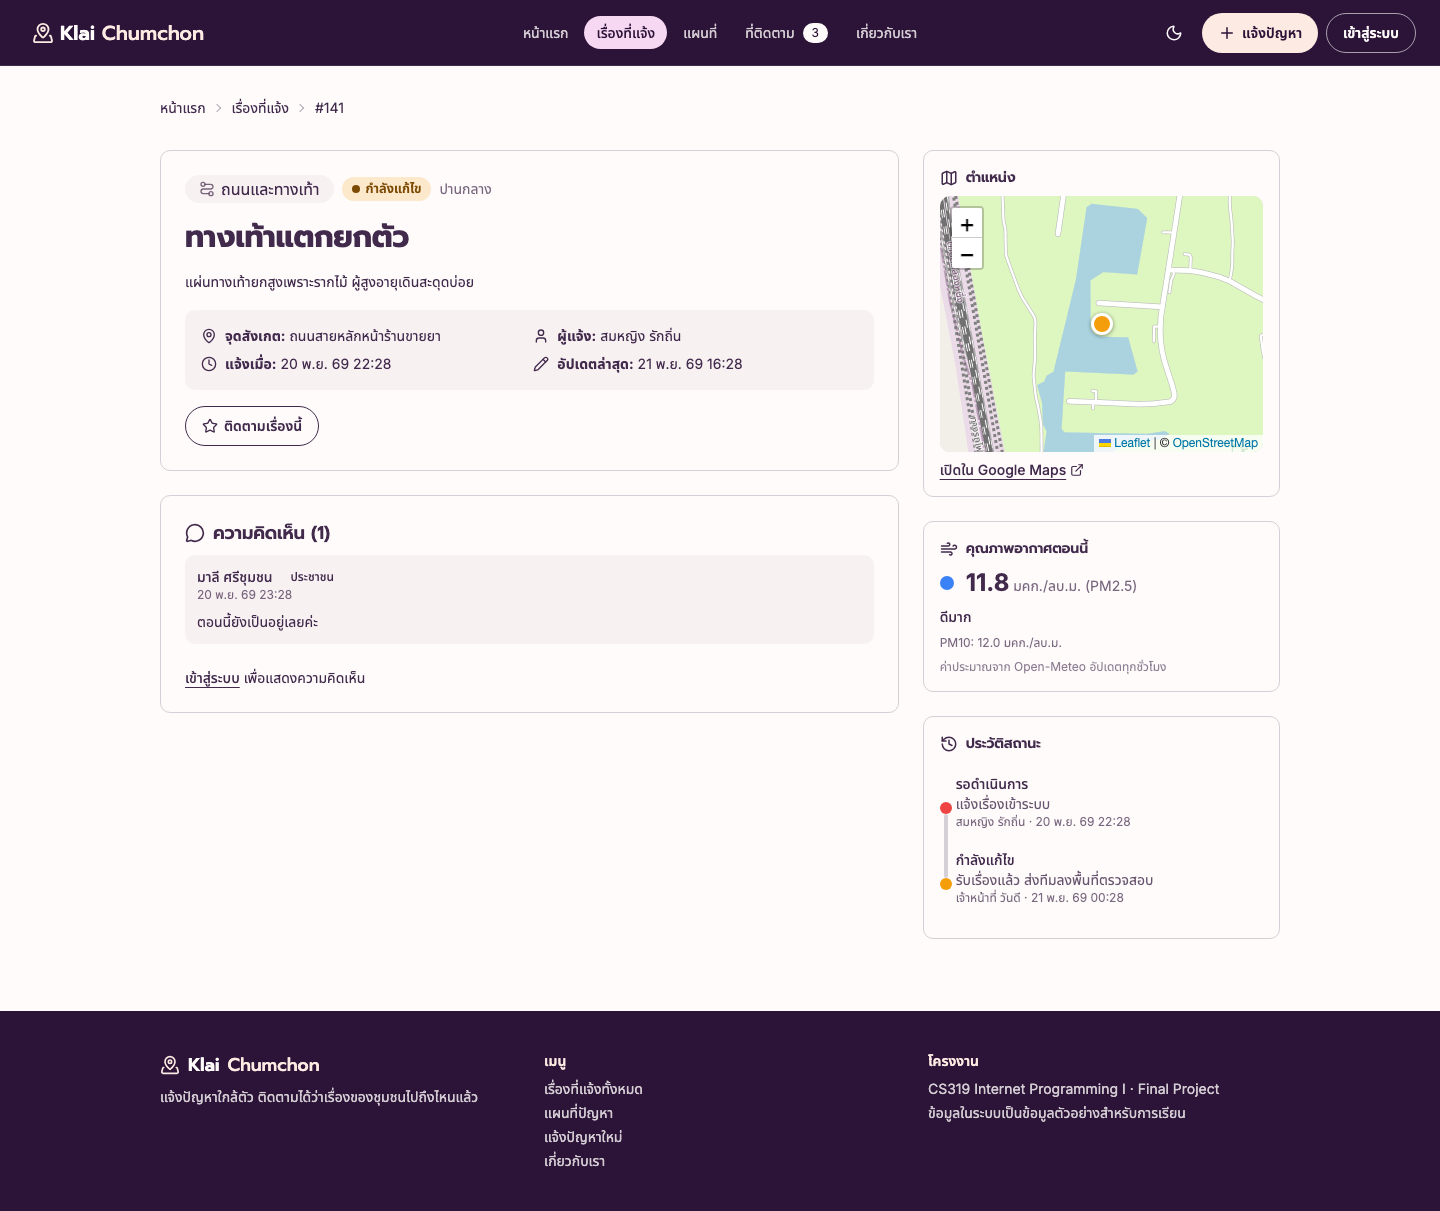
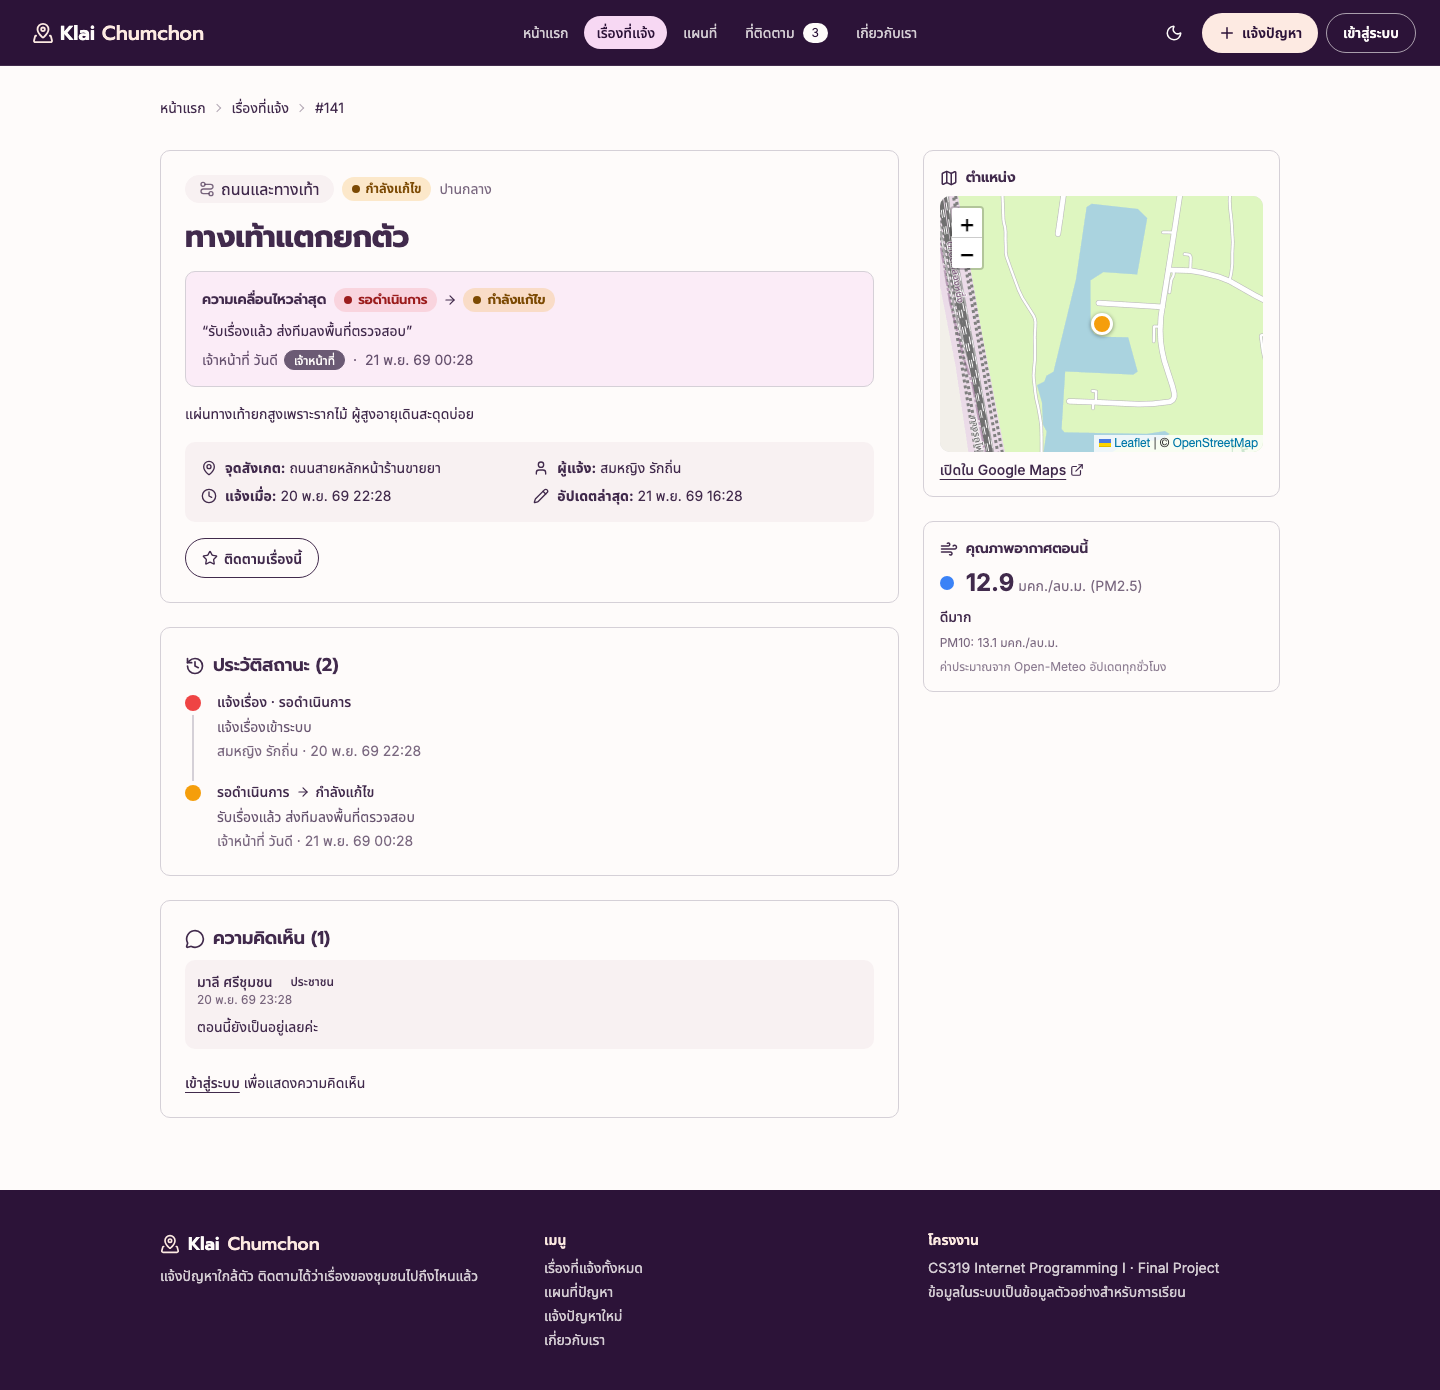
หน้ารายละเอียด: แสดงความเคลื่อนไหวล่าสุดใต้หัวข้อ ย้ายประวัติสถานะมาคอลัมน์หลัก (จาก → เป็น) และปุ่มอัปเดตสถานะข้างสถานะ

diff --git a/client/src/pages/ReportDetailPage.tsx b/client/src/pages/ReportDetailPage.tsx
@@ -1,7 +1,7 @@
 import { useState } from "react";
 import type { FormEvent } from "react";
 import { Link, useNavigate, useParams } from "react-router";
-import { ArrowLeft, Clock, ExternalLink, History, Map as MapIcon, MapPin, MessageCircle, Pencil, Star, User, Wrench } from "lucide-react";
+import { ArrowLeft, ArrowRight, Clock, ExternalLink, History, Map as MapIcon, MapPin, MessageCircle, Pencil, Star, User } from "lucide-react";
 import { useAddComment, useDeleteComment, useDeleteReport, useReport } from "../hooks/useReports";
 import { useMe } from "../hooks/useAuth";
 import { useUiStore } from "../stores/useUiStore";
@@ -57,6 +57,8 @@ export default function ReportDetailPage() {
 
   // สิทธิ์ตรงกับหลังบ้าน (หลังบ้านเช็กซ้ำอีกที ตรงนี้แค่ซ่อนปุ่ม)
   const isStaff = user?.role === "STAFF" || user?.role === "ADMIN";
+  // log เรียงจากเก่าไปใหม่ ตัวสุดท้ายคือความเคลื่อนไหวล่าสุด
+  const latest = r.statusLogs.length > 0 ? r.statusLogs[r.statusLogs.length - 1] : null;
   const isOwnerPending = user?.id === r.reporterId && r.status === "PENDING";
   const canEdit = isStaff || isOwnerPending;
   const canDelete = user?.role === "ADMIN" || isOwnerPending;
@@ -124,6 +126,40 @@ export default function ReportDetailPage() {
               </div>
 
               <h1 className="text-2xl sm:text-3xl font-bold">{r.title}</h1>
+
+              {/* ความเคลื่อนไหวล่าสุด: คำตอบแรกที่ผู้แจ้งอยากรู้ (เจ้าหน้าที่ว่ายังไง) */}
+              {latest && (
+                <section aria-labelledby="latest-update" className="rounded-box border border-base-300 bg-secondary/40 p-4 space-y-2">
+                  <div className="flex flex-wrap items-center justify-between gap-3">
+                    <h2 id="latest-update" className="text-sm font-semibold flex flex-wrap items-center gap-2">
+                      ความเคลื่อนไหวล่าสุด
+                      {latest.fromStatus ? (
+                        <span className="inline-flex items-center gap-1.5 font-normal">
+                          <StatusBadge status={latest.fromStatus} />
+                          <ArrowRight size={14} aria-label="เปลี่ยนเป็น" />
+                          <StatusBadge status={latest.toStatus} />
+                        </span>
+                      ) : (
+                        <StatusBadge status={latest.toStatus} />
+                      )}
+                    </h2>
+                    {isStaff && (
+                      <button className="btn btn-primary w-full sm:w-auto" onClick={() => setShowStatus(true)}>
+                        อัปเดตสถานะ
+                      </button>
+                    )}
+                  </div>
+                  {latest.note && <p className="leading-relaxed">“{latest.note}”</p>}
+                  <p className="text-sm text-base-content/80 flex flex-wrap items-center gap-x-2 gap-y-1">
+                    <span className="inline-flex items-center gap-1.5">
+                      {latest.changedBy.name} <RoleBadge role={latest.changedBy.role} />
+                    </span>
+                    <span aria-hidden="true">·</span>
+                    <span>{formatDate(latest.createdAt)}</span>
+                  </p>
+                </section>
+              )}
+
               <p className="whitespace-pre-line leading-relaxed">{r.description}</p>
 
               <div className="grid grid-cols-1 sm:grid-cols-2 gap-2 text-sm bg-base-200 rounded-box p-4">
@@ -138,7 +174,7 @@ export default function ReportDetailPage() {
 
               <div className="card-actions justify-between flex-wrap gap-2">
                 <button
-                  className={`btn ${saved ? "btn-warning" : "btn-outline"}`}
+                  className={`btn ${saved ? "btn-secondary" : "btn-outline"}`}
                   onClick={() => toggleBookmark(r.id)}
                   aria-pressed={saved}
                 >
@@ -160,6 +196,46 @@ export default function ReportDetailPage() {
               </div>
             </div>
           </article>
+
+          <section aria-labelledby="history-title" className="card bg-base-100 border border-base-300">
+            <div className="card-body">
+              <h2 id="history-title" className="card-title">
+                <History size={20} aria-hidden="true" /> ประวัติสถานะ ({r.statusLogs.length})
+              </h2>
+              <ol className="mt-1">
+                {r.statusLogs.map((log, i) => (
+                  <li key={log.id} className="relative flex gap-4 pb-5 last:pb-0">
+                    {/* เส้นเชื่อมระหว่างจุด */}
+                    {i < r.statusLogs.length - 1 && (
+                      <span className="absolute left-[7px] top-5 bottom-0 w-0.5 bg-base-300" aria-hidden="true" />
+                    )}
+                    <span
+                      className="relative mt-1 block w-4 h-4 shrink-0 rounded-full ring-4 ring-base-100"
+                      style={{ background: STATUS_COLOR[log.toStatus] }}
+                      aria-hidden="true"
+                    />
+                    <div className="min-w-0 space-y-1">
+                      <p className="font-medium flex flex-wrap items-center gap-1.5">
+                        {log.fromStatus ? (
+                          <>
+                            {STATUS_LABEL[log.fromStatus]}
+                            <ArrowRight size={14} aria-label="เปลี่ยนเป็น" />
+                            {STATUS_LABEL[log.toStatus]}
+                          </>
+                        ) : (
+                          <>แจ้งเรื่อง · {STATUS_LABEL[log.toStatus]}</>
+                        )}
+                      </p>
+                      {log.note && <p className="text-base-content/80">{log.note}</p>}
+                      <p className="text-sm text-base-content/70">
+                        {log.changedBy.name} · {formatDate(log.createdAt)}
+                      </p>
+                    </div>
+                  </li>
+                ))}
+              </ol>
+            </div>
+          </section>
 
           <section className="card bg-base-100 border border-base-300">
             <div className="card-body">
@@ -229,7 +305,7 @@ export default function ReportDetailPage() {
           </section>
         </div>
 
-        {/* ฝั่งขวา: แผนที่ + สถานะ */}
+        {/* ฝั่งขวา: ข้อมูลประกอบ (แผนที่ แล้วค่าฝุ่น) */}
         <aside className="space-y-6">
           <div className="card bg-base-100 border border-base-300">
             <div className="card-body p-4 gap-2">
@@ -250,50 +326,7 @@ export default function ReportDetailPage() {
 
           <AirQualityCard lat={r.latitude} lng={r.longitude} />
 
-          {isStaff && (
-            <div className="card bg-secondary/40 border border-base-300">
-              <div className="card-body p-4 gap-3">
-                <h2 className="font-semibold flex items-center gap-2">
-                  <Wrench size={18} aria-hidden="true" /> สำหรับเจ้าหน้าที่
-                </h2>
-                <p className="text-sm flex items-center gap-2">
-                  สถานะตอนนี้ <StatusBadge status={r.status} />
-                </p>
-                <button className="btn btn-primary btn-sm" onClick={() => setShowStatus(true)}>
-                  อัปเดตสถานะ
-                </button>
-              </div>
-            </div>
-          )}
 
-          <div className="card bg-base-100 border border-base-300">
-            <div className="card-body p-4">
-              <h2 className="font-semibold mb-2 flex items-center gap-2">
-                <History size={18} aria-hidden="true" /> ประวัติสถานะ
-              </h2>
-              <ul className="timeline timeline-vertical timeline-compact">
-                {r.statusLogs.map((log, i) => (
-                  <li key={log.id}>
-                    {i > 0 && <hr />}
-                    <div className="timeline-middle">
-                      <span
-                        className="block w-3 h-3 rounded-full"
-                        style={{ background: STATUS_COLOR[log.toStatus] }}
-                      />
-                    </div>
-                    <div className="timeline-end mb-4 text-sm">
-                      <p className="font-medium">{STATUS_LABEL[log.toStatus]}</p>
-                      {log.note && <p className="text-base-content/80">{log.note}</p>}
-                      <p className="text-xs text-base-content/70">
-                        {log.changedBy.name} · {formatDate(log.createdAt)}
-                      </p>
-                    </div>
-                    {i < r.statusLogs.length - 1 && <hr />}
-                  </li>
-                ))}
-              </ul>
-            </div>
-          </div>
         </aside>
       </div>
 
